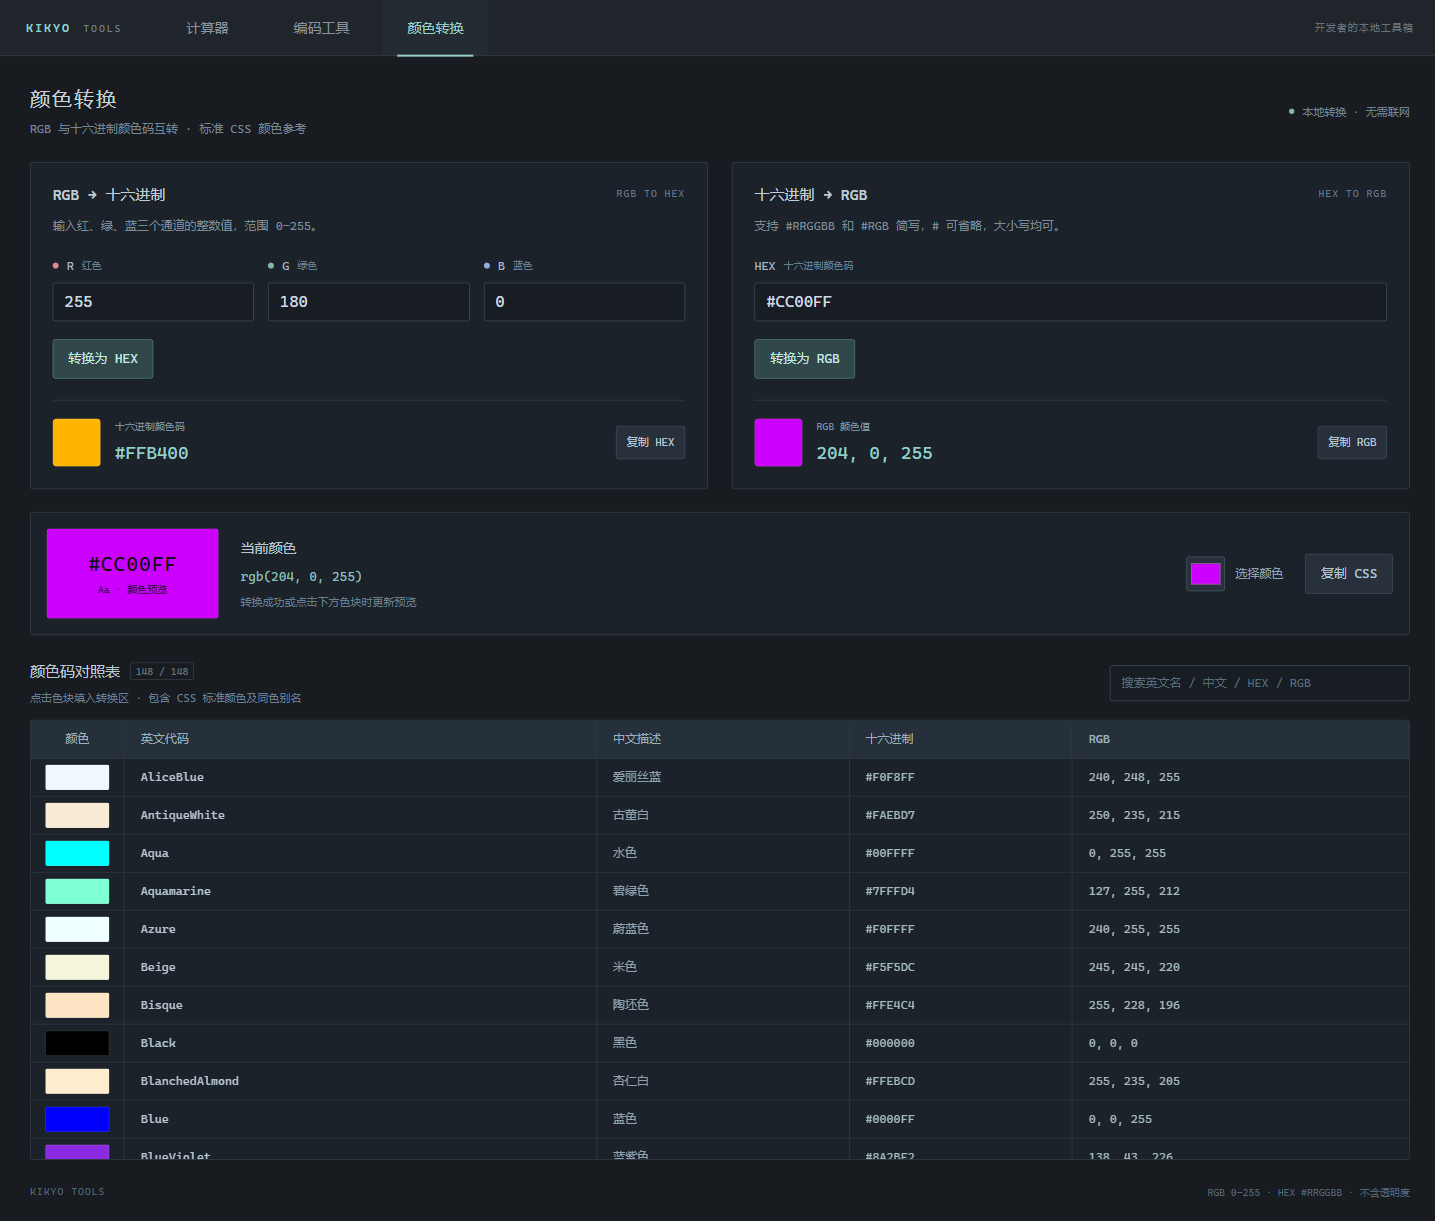
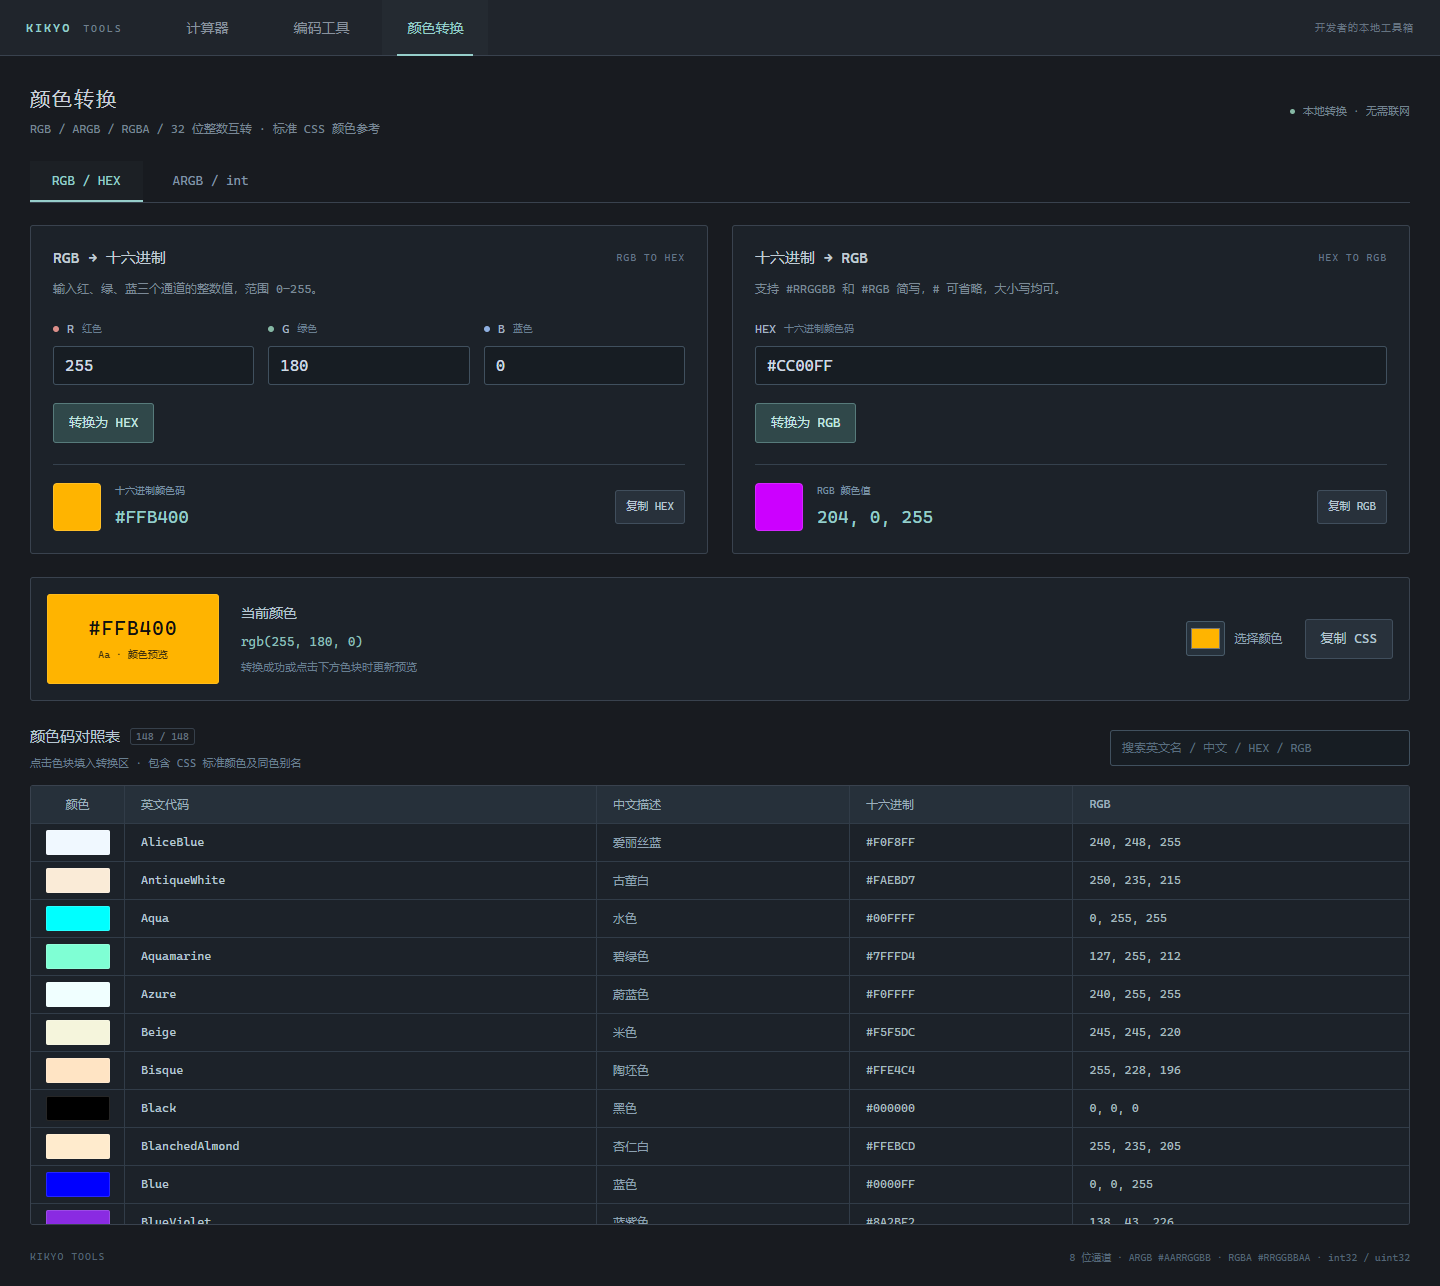
新增透明通道处理

diff --git a/src/components/ArgbConverter.vue b/src/components/ArgbConverter.vue
@@ -1,0 +1,84 @@
+<script setup lang="ts">
+import { computed, reactive, ref } from 'vue'
+import { alphaHexToColor, argbToColor, hexToColor, integerToArgb } from '../utils/color'
+import type { ArgbColor } from '../utils/color'
+
+const emit = defineEmits<{ copy: [value: string] }>()
+type Source = 'channels' | 'argb' | 'rgba' | 'integer'
+const channels = reactive({ r: '255', g: '255', b: '255', a: '25' })
+const result = ref(argbToColor('25', '255', '255', '255'))
+const argb = ref(result.value.argb)
+const rgba = ref(result.value.rgba)
+const integer = ref(result.value.unsigned)
+const error = ref('')
+const invalidSource = ref<Source | null>(null)
+const percentage = computed(() => (result.value.a / 255 * 100).toFixed(1) + '%')
+
+function commit(color: ArgbColor, source?: Source) {
+  result.value = color
+  if (source !== 'channels') {
+    channels.r = String(color.r)
+    channels.g = String(color.g)
+    channels.b = String(color.b)
+    channels.a = String(color.a)
+  }
+  if (source !== 'argb') argb.value = color.argb
+  if (source !== 'rgba') rgba.value = color.rgba
+  if (source !== 'integer') integer.value = color.unsigned
+  error.value = ''
+  invalidSource.value = null
+}
+function update(source: Source, normalize = false) {
+  try {
+    const color = source === 'channels' ? argbToColor(channels.a, channels.r, channels.g, channels.b)
+      : source === 'integer' ? integerToArgb(integer.value)
+      : alphaHexToColor(source === 'argb' ? argb.value : rgba.value, source)
+    commit(color, normalize ? undefined : source)
+  } catch (failure) {
+    invalidSource.value = source
+    error.value = (failure as Error).message
+  }
+}
+function setRgb(hex: string) {
+  const rgb = hexToColor(hex)
+  // Color picker and named colors change RGB while preserving the last valid alpha.
+  commit(argbToColor(String(result.value.a), String(rgb.r), String(rgb.g), String(rgb.b)))
+}
+function pick(event: Event) { setRgb((event.target as HTMLInputElement).value) }
+defineExpose({ setRgb })
+</script>
+
+<template>
+  <section class="argb-tool" aria-label="ARGB 与 32 位整数转换">
+    <p class="argb-introduction">输入任意一组数值，其他格式自动联动。整数按 <code>0xAARRGGBB</code> 打包，A=0 为全透明，A=255 为不透明。</p>
+    <div class="argb-converter-grid">
+      <form class="color-converter-card" novalidate @submit.prevent="update('channels', true)">
+        <div class="color-card-heading"><h2>RGBA 通道</h2><span>0–255</span></div>
+        <div class="argb-channel-inputs">
+          <label v-for="(label, key) in { r: '红色', g: '绿色', b: '蓝色', a: '透明度' }" :key="key"><span><i :class="`channel-dot ${key}`"></i>{{ key.toUpperCase() }} <small>{{ label }}</small></span><input v-model="channels[key]" :aria-label="`ARGB ${key.toUpperCase()} 通道`" type="text" inputmode="numeric" autocomplete="off" spellcheck="false" :aria-invalid="invalidSource === 'channels'" @input="update('channels')" @blur="update('channels', true)" /></label>
+        </div>
+        <p class="tool-field-hint">每个通道均为 0–255 的整数；A 为 8 位透明度。</p>
+      </form>
+      <form class="color-converter-card" novalidate @submit.prevent>
+        <div class="color-card-heading"><h2>十六进制颜色码</h2><span>HEX</span></div>
+        <label class="argb-format-field"><span>#ARGB <small>Alpha 在前 · #AARRGGBB</small></span><div><input v-model="argb" aria-label="ARGB 十六进制" type="text" autocomplete="off" spellcheck="false" :aria-invalid="invalidSource === 'argb'" @input="update('argb')" @blur="update('argb', true)" @keydown.enter.prevent="update('argb', true)" /><button type="button" class="utility-button" @click="emit('copy', result.argb)">复制 ARGB</button></div></label>
+        <label class="argb-format-field"><span>#RGBA <small>Alpha 在后 · #RRGGBBAA</small></span><div><input v-model="rgba" aria-label="RGBA 十六进制" type="text" autocomplete="off" spellcheck="false" :aria-invalid="invalidSource === 'rgba'" @input="update('rgba')" @blur="update('rgba', true)" @keydown.enter.prevent="update('rgba', true)" /><button type="button" class="utility-button" @click="emit('copy', result.rgba)">复制 RGBA</button></div></label>
+        <p class="tool-field-hint">可省略 #，支持 4 位简写；CSS 的 8 位 HEX 使用 RGBA 顺序。</p>
+      </form>
+      <form class="color-converter-card" novalidate @submit.prevent="update('integer', true)">
+        <div class="color-card-heading"><h2>32 位整数</h2><span>ARGB ↔ INT</span></div>
+        <label class="argb-format-field"><span>整数输入 <small>有符号 / 无符号</small></span><input v-model="integer" aria-label="ARGB 整数输入" type="text" inputmode="text" autocomplete="off" spellcheck="false" :aria-invalid="invalidSource === 'integer'" @input="update('integer')" @blur="update('integer', true)" /></label>
+        <label class="argb-format-field argb-integer-result"><span>int32 <small>有符号</small></span><div><input :value="result.signed" aria-label="ARGB 有符号整数" type="text" readonly /><button type="button" class="utility-button" @click="emit('copy', result.signed)">复制 int32</button></div></label>
+        <label class="argb-format-field argb-integer-result"><span>uint32 <small>无符号</small></span><div><input :value="result.unsigned" aria-label="ARGB 无符号整数" type="text" readonly /><button type="button" class="utility-button" @click="emit('copy', result.unsigned)">复制 uint32</button></div></label>
+      </form>
+    </div>
+    <p v-if="error" class="tool-error argb-error" role="alert">{{ error }}。其他字段及预览保留最近一次有效颜色。</p>
+    <section class="argb-preview-panel" aria-label="透明颜色预览">
+      <div class="alpha-checkerboard" role="img" :aria-label="`透明颜色 ${result.rgba}，不透明度 ${percentage}`"><div :style="{ backgroundColor: result.rgba }"></div><span>A = {{ result.a }}</span></div>
+      <div class="argb-preview-details"><h2>透明度预览 <small>{{ percentage }}</small></h2><label>Alpha <input v-model="channels.a" aria-label="Alpha 透明度滑块" type="range" min="0" max="255" step="1" @input="update('channels')" /></label><span>{{ result.css }}</span></div>
+      <label class="color-picker-label"><input :value="result.hex" type="color" aria-label="ARGB 颜色选择器" @input="pick" /><span>选择 RGB</span></label>
+      <button type="button" class="utility-button" @click="emit('copy', result.css)">复制 RGBA CSS</button>
+    </section>
+    <p class="tool-explanation argb-explanation">int32：-2147483648 到 2147483647；uint32：0 到 4294967295。两者表示相同的 32 位位模式，例如不透明白色是 int32 = -1 / uint32 = 4294967295。下方色块只更改 RGB，保留当前透明度。</p>
+  </section>
+</template>

diff --git a/src/views/ColorPage.vue b/src/views/ColorPage.vue
@@ -1,9 +1,12 @@
 <script setup lang="ts">
-import { computed, onBeforeUnmount, reactive, ref } from 'vue'
+import { computed, nextTick, onBeforeUnmount, reactive, ref } from 'vue'
+import ArgbConverter from '../components/ArgbConverter.vue'
 import { namedColors } from '../data/namedColors'
 import { hexToColor, previewTextColor, rgbToColor } from '../utils/color'
 import type { ColorValue } from '../utils/color'
 
+const mode = ref<'rgb' | 'argb'>('rgb')
+const argbConverter = ref<InstanceType<typeof ArgbConverter> | null>(null)
 const channels = reactive({ r: '255', g: '180', b: '0' })
 const hexInput = ref('#CC00FF')
 const rgbResult = ref<ColorValue | null>(rgbToColor('255', '180', '0'))
@@ -55,6 +58,14 @@ function selectColor(hex: string, name = '') {
   selectedName.value = name
   rgbError.value = ''
   hexError.value = ''
+  argbConverter.value?.setRgb(color.hex)
+}
+async function navigateMode(event: KeyboardEvent) {
+  if (!['ArrowLeft', 'ArrowRight', 'Home', 'End'].includes(event.key)) return
+  event.preventDefault()
+  mode.value = event.key === 'Home' ? 'rgb' : event.key === 'End' ? 'argb' : mode.value === 'rgb' ? 'argb' : 'rgb'
+  await nextTick()
+  document.getElementById(`color-tab-${mode.value}`)?.focus()
 }
 function pick(event: Event) {
   selectColor((event.target as HTMLInputElement).value)
@@ -69,7 +80,12 @@ async function copy(value: string) {
 
 <template>
   <main class="encoding-page color-page">
-    <header class="encoding-header"><div><h1>颜色转换</h1><p>RGB 与十六进制颜色码互转 · 标准 CSS 颜色参考</p></div><span class="encoding-local"><i></i>本地转换 · 无需联网</span></header>
+    <header class="encoding-header"><div><h1>颜色转换</h1><p>RGB / ARGB / RGBA / 32 位整数互转 · 标准 CSS 颜色参考</p></div><span class="encoding-local"><i></i>本地转换 · 无需联网</span></header>
+    <nav class="color-mode-tabs" role="tablist" aria-label="颜色转换模式" @keydown="navigateMode">
+      <button id="color-tab-rgb" type="button" role="tab" :aria-selected="mode === 'rgb'" aria-controls="color-panel-rgb" :tabindex="mode === 'rgb' ? 0 : -1" :class="{ active: mode === 'rgb' }" @click="mode = 'rgb'">RGB / HEX</button>
+      <button id="color-tab-argb" type="button" role="tab" :aria-selected="mode === 'argb'" aria-controls="color-panel-argb" :tabindex="mode === 'argb' ? 0 : -1" :class="{ active: mode === 'argb' }" @click="mode = 'argb'">ARGB / int</button>
+    </nav>
+    <div v-show="mode === 'rgb'" id="color-panel-rgb" role="tabpanel" aria-labelledby="color-tab-rgb">
     <section class="color-converter-grid" aria-label="RGB 与十六进制转换">
       <form class="color-converter-card" novalidate @submit.prevent="convertRgb">
         <div class="color-card-heading"><h2>RGB → 十六进制</h2><span>RGB TO HEX</span></div>
@@ -108,6 +124,8 @@ async function copy(value: string) {
       <label class="color-picker-label"><input :value="preview.hex" type="color" aria-label="颜色选择器" @input="pick" /><span>选择颜色</span></label>
       <button type="button" class="utility-button" @click="copy(preview.css)">复制 CSS</button>
     </section>
+    </div>
+    <ArgbConverter v-show="mode === 'argb'" id="color-panel-argb" ref="argbConverter" role="tabpanel" aria-labelledby="color-tab-argb" @copy="copy" />
 
     <section class="color-reference" aria-labelledby="color-reference-title">
       <div class="color-reference-heading"><div><h2 id="color-reference-title">颜色码对照表 <span class="count-badge">{{ filteredColors.length }} / {{ colors.length }}</span></h2><p>点击色块填入转换区 · 包含 CSS 标准颜色及同色别名</p></div><div class="color-search"><input v-model="search" aria-label="搜索颜色" type="search" placeholder="搜索英文名 / 中文 / HEX / RGB" autocomplete="off" spellcheck="false" /><button v-if="search" type="button" class="text-button" @click="search = ''">清除搜索</button></div></div>
@@ -122,7 +140,7 @@ async function copy(value: string) {
         </table>
       </div>
     </section>
-    <footer class="encoding-page-footer">KIKYO TOOLS <span>RGB 0–255 · HEX #RRGGBB · 不含透明度</span></footer>
+    <footer class="encoding-page-footer">KIKYO TOOLS <span>8 位通道 · ARGB #AARRGGBB · RGBA #RRGGBBAA · int32 / uint32</span></footer>
     <Transition name="toast"><div v-if="notice" class="toast-message" role="status">{{ notice }}</div></Transition>
   </main>
 </template>

diff --git a/src/color.css b/src/color.css
@@ -1,3 +1,45 @@
+.color-mode-tabs { display: flex; gap: 8px; margin-bottom: 22px; border-bottom: 1px solid var(--border); }
+.color-mode-tabs button { border: 0; border-bottom: 2px solid transparent; background: transparent; padding: 12px 22px; color: #8095a6; font-size: 13px; }
+.color-mode-tabs button.active { color: var(--teal); border-bottom-color: var(--teal); background: #95ceca08; }
+.color-mode-tabs button:hover { color: #bdd8da; }
+.argb-introduction { font-size: 12px; color: #8298aa; line-height: 1.8; margin: 0 0 20px; }
+.argb-introduction code { color: var(--teal); }
+.argb-converter-grid { display: grid; grid-template-columns: .9fr 1.15fr 1.05fr; gap: 20px; }
+.argb-converter-grid .color-converter-card { padding: 20px; }
+.argb-converter-grid .color-card-heading { margin-bottom: 24px; }
+.argb-channel-inputs { display: grid; grid-template-columns: repeat(2, minmax(0, 1fr)); gap: 18px 14px; }
+.argb-channel-inputs label, .argb-format-field { display: flex; flex-direction: column; min-width: 0; gap: 9px; }
+.argb-channel-inputs label > span, .argb-format-field > span { display: flex; align-items: center; gap: 7px; font-size: 12px; color: #9ab0bf; }
+.argb-channel-inputs small, .argb-format-field small { font-size: 10px; color: #6a8294; }
+.channel-dot.a { background: #b9c2c8; }
+.argb-format-field { margin-top: 20px; }
+.argb-format-field > div { display: flex; gap: 8px; align-items: center; }
+.argb-format-field .utility-button { padding: 8px 9px; font-size: 10px; flex-shrink: 0; }
+.argb-integer-result input[readonly] { color: var(--teal); background: #1b242b; font-size: 14px; }
+.argb-error { padding: 11px 14px; border: 1px solid #76554c; background: #362824; border-radius: 3px; }
+.argb-preview-panel { display: flex; align-items: center; gap: 22px; margin: 22px 0 12px; padding: 17px; border: 1px solid var(--border); border-radius: 3px; background: #1c2229; }
+.alpha-checkerboard { width: 180px; height: 104px; flex-shrink: 0; border-radius: 3px; border: 1px solid #ffffff22; overflow: hidden; position: relative; background-image: conic-gradient(#a0a5ab 25%, #e0e3e6 0 50%, #a0a5ab 0 75%, #e0e3e6 0); background-size: 20px 20px; }
+.alpha-checkerboard > div { position: absolute; inset: 0; }
+.alpha-checkerboard > span { position: absolute; bottom: 8px; left: 8px; color: #fff; background: #111c; border-radius: 2px; padding: 4px 7px; font-size: 11px; }
+.argb-preview-details { min-width: 0; flex: 1; }
+.argb-preview-details h2 { display: flex; gap: 13px; align-items: baseline; font-size: 14px; color: #b1c4d0; }
+.argb-preview-details h2 small { font-size: 11px; color: #82b7b1; }
+.argb-preview-details > label { display: flex; gap: 13px; align-items: center; font-size: 11px; color: #6f899c; margin: 14px 0 10px; max-width: 400px; }
+.argb-preview-details input[type="range"] { width: 100%; accent-color: var(--teal); }
+.argb-preview-details > span { color: #83b9b5; font-size: 12px; overflow-wrap: anywhere; }
+.argb-explanation { margin-bottom: 25px; }
+@media (max-width: 1200px) {
+  .argb-converter-grid { grid-template-columns: 1fr 1fr; gap: 18px; }
+  .argb-converter-grid > :last-child { grid-column: 1 / -1; display: grid; grid-template-columns: 1fr 1fr 1fr; gap: 16px; align-items: end; }
+  .argb-converter-grid > :last-child .color-card-heading { grid-column: 1 / -1; margin: 0; }
+  .argb-converter-grid > :last-child .argb-format-field { margin: 0; }
+}
+@media (max-width: 980px) {
+  .argb-preview-panel { flex-wrap: wrap; gap: 16px; }
+  .argb-converter-grid > :last-child { grid-template-columns: 1fr 1fr; }
+  .argb-converter-grid > :last-child .argb-format-field:first-of-type { grid-column: 1 / -1; }
+}
+
 .color-converter-grid { display: grid; grid-template-columns: 1fr 1fr; gap: 24px; }
 .color-converter-card { min-width: 0; padding: 22px; border: 1px solid var(--border); border-radius: 3px; background: #1c2229; }
 .color-card-heading { display: flex; align-items: center; justify-content: space-between; gap: 15px; }

diff --git a/src/utils/color.ts b/src/utils/color.ts
@@ -12,15 +12,16 @@ function colorValue(r: number, g: number, b: number): ColorValue {
   return { r, g, b, hex: '#' + [r, g, b].map(value => value.toString(16).padStart(2, '0')).join('').toUpperCase(), rgb, css: `rgb(${rgb})` }
 }
 
+function parseChannel(value: string, label: string): number {
+  const text = value.trim()
+  if (!/^\d{1,3}$/.test(text) || Number(text) > 255) {
+    throw new Error(`${label} 必须是 0 到 255 之间的整数`)
+  }
+  return Number(text)
+}
+
 export function rgbToColor(red: string, green: string, blue: string): ColorValue {
-  const channels = [red, green, blue].map((value, index) => {
-    const text = value.trim()
-    if (!/^\d{1,3}$/.test(text) || Number(text) > 255) {
-      throw new Error(`${['R（红）', 'G（绿）', 'B（蓝）'][index]} 必须是 0 到 255 之间的整数`)
-    }
-    return Number(text)
-  })
-  return colorValue(channels[0]!, channels[1]!, channels[2]!)
+  return colorValue(parseChannel(red, 'R（红）'), parseChannel(green, 'G（绿）'), parseChannel(blue, 'B（蓝）'))
 }
 
 export function hexToColor(input: string): ColorValue {
@@ -28,6 +29,55 @@ export function hexToColor(input: string): ColorValue {
   if (!match) throw new Error('请输入 3 位或 6 位十六进制颜色码，例如 #F80 或 #FF8800；不包含透明度')
   const digits = match[1]!.length === 3 ? Array.from(match[1]!, digit => digit + digit).join('') : match[1]!
   return colorValue(parseInt(digits.slice(0, 2), 16), parseInt(digits.slice(2, 4), 16), parseInt(digits.slice(4, 6), 16))
+}
+
+export interface ArgbColor extends ColorValue {
+  a: number
+  argb: string
+  rgba: string
+  signed: string
+  unsigned: string
+  opacity: string
+}
+
+function argbValue(a: number, rgb: ColorValue): ArgbColor {
+  const alphaHex = a.toString(16).padStart(2, '0').toUpperCase()
+  const unsigned = a * 0x1000000 + rgb.r * 0x10000 + rgb.g * 0x100 + rgb.b
+  const opacity = String(Number((a / 255).toFixed(6)))
+  return {
+    ...rgb, a,
+    argb: '#' + alphaHex + rgb.hex.slice(1),
+    rgba: rgb.hex + alphaHex,
+    signed: String(unsigned >= 0x80000000 ? unsigned - 0x100000000 : unsigned),
+    unsigned: String(unsigned),
+    opacity,
+    css: `rgba(${rgb.rgb}, ${opacity})`,
+  }
+}
+
+export function argbToColor(alpha: string, red: string, green: string, blue: string): ArgbColor {
+  return argbValue(parseChannel(alpha, 'A（透明度）'), rgbToColor(red, green, blue))
+}
+
+export function alphaHexToColor(input: string, order: 'argb' | 'rgba'): ArgbColor {
+  const match = /^#?([0-9a-f]{8}|[0-9a-f]{4})$/i.exec(input.trim())
+  const format = order === 'argb' ? '#AARRGGBB / #ARGB' : '#RRGGBBAA / #RGBA'
+  if (!match) throw new Error(`请输入 4 位或 8 位十六进制颜色码，当前格式为 ${format}`)
+  const digits = match[1]!.length === 4 ? Array.from(match[1]!, digit => digit + digit).join('') : match[1]!
+  const alpha = order === 'argb' ? digits.slice(0, 2) : digits.slice(6, 8)
+  const rgb = order === 'argb' ? digits.slice(2) : digits.slice(0, 6)
+  return argbValue(parseInt(alpha, 16), hexToColor(rgb))
+}
+
+export function integerToArgb(input: string): ArgbColor {
+  const text = input.trim()
+  if (!/^[+-]?\d{1,64}$/.test(text)) throw new Error('请输入十进制 32 位整数，不支持小数或科学计数法')
+  const value = Number(text)
+  if (!Number.isInteger(value) || value < -0x80000000 || value > 0xFFFFFFFF) {
+    throw new Error('整数范围为 -2147483648 到 4294967295（有符号或无符号 32 位）')
+  }
+  const unsigned = value < 0 ? value + 0x100000000 : value
+  return alphaHexToColor(unsigned.toString(16).padStart(8, '0'), 'argb')
 }
 
 export function previewTextColor(color: ColorValue): string {
